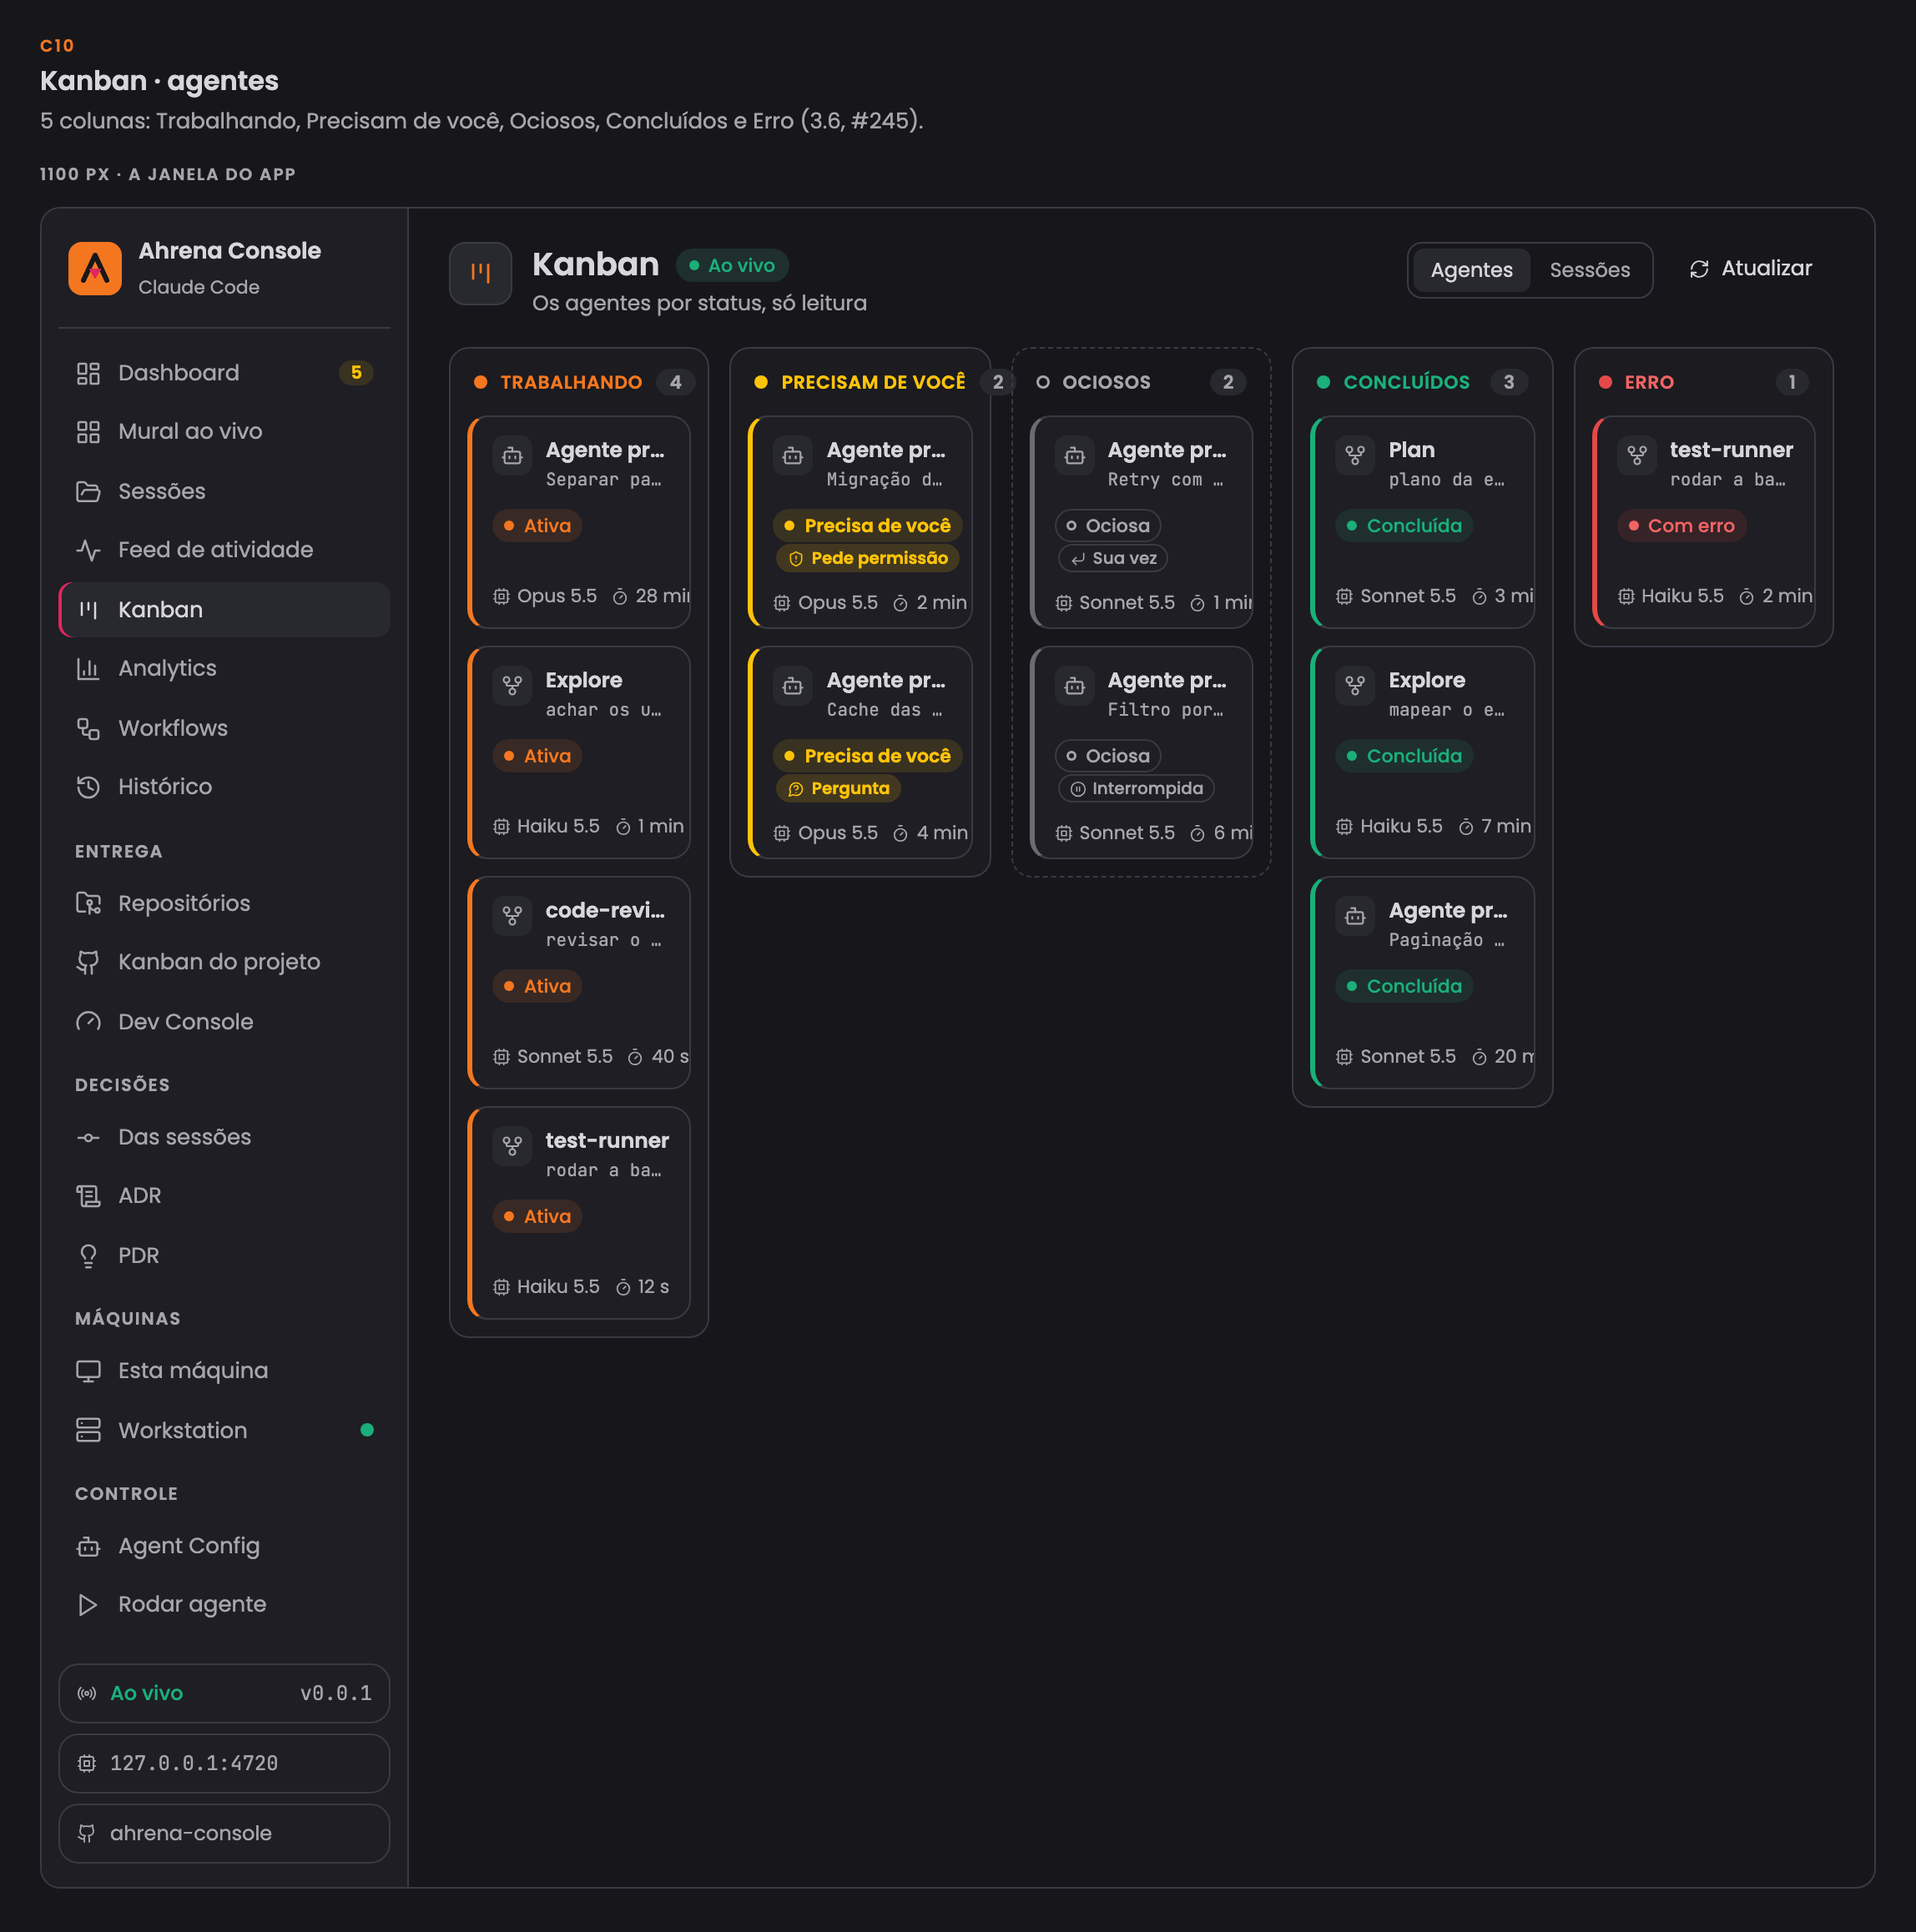
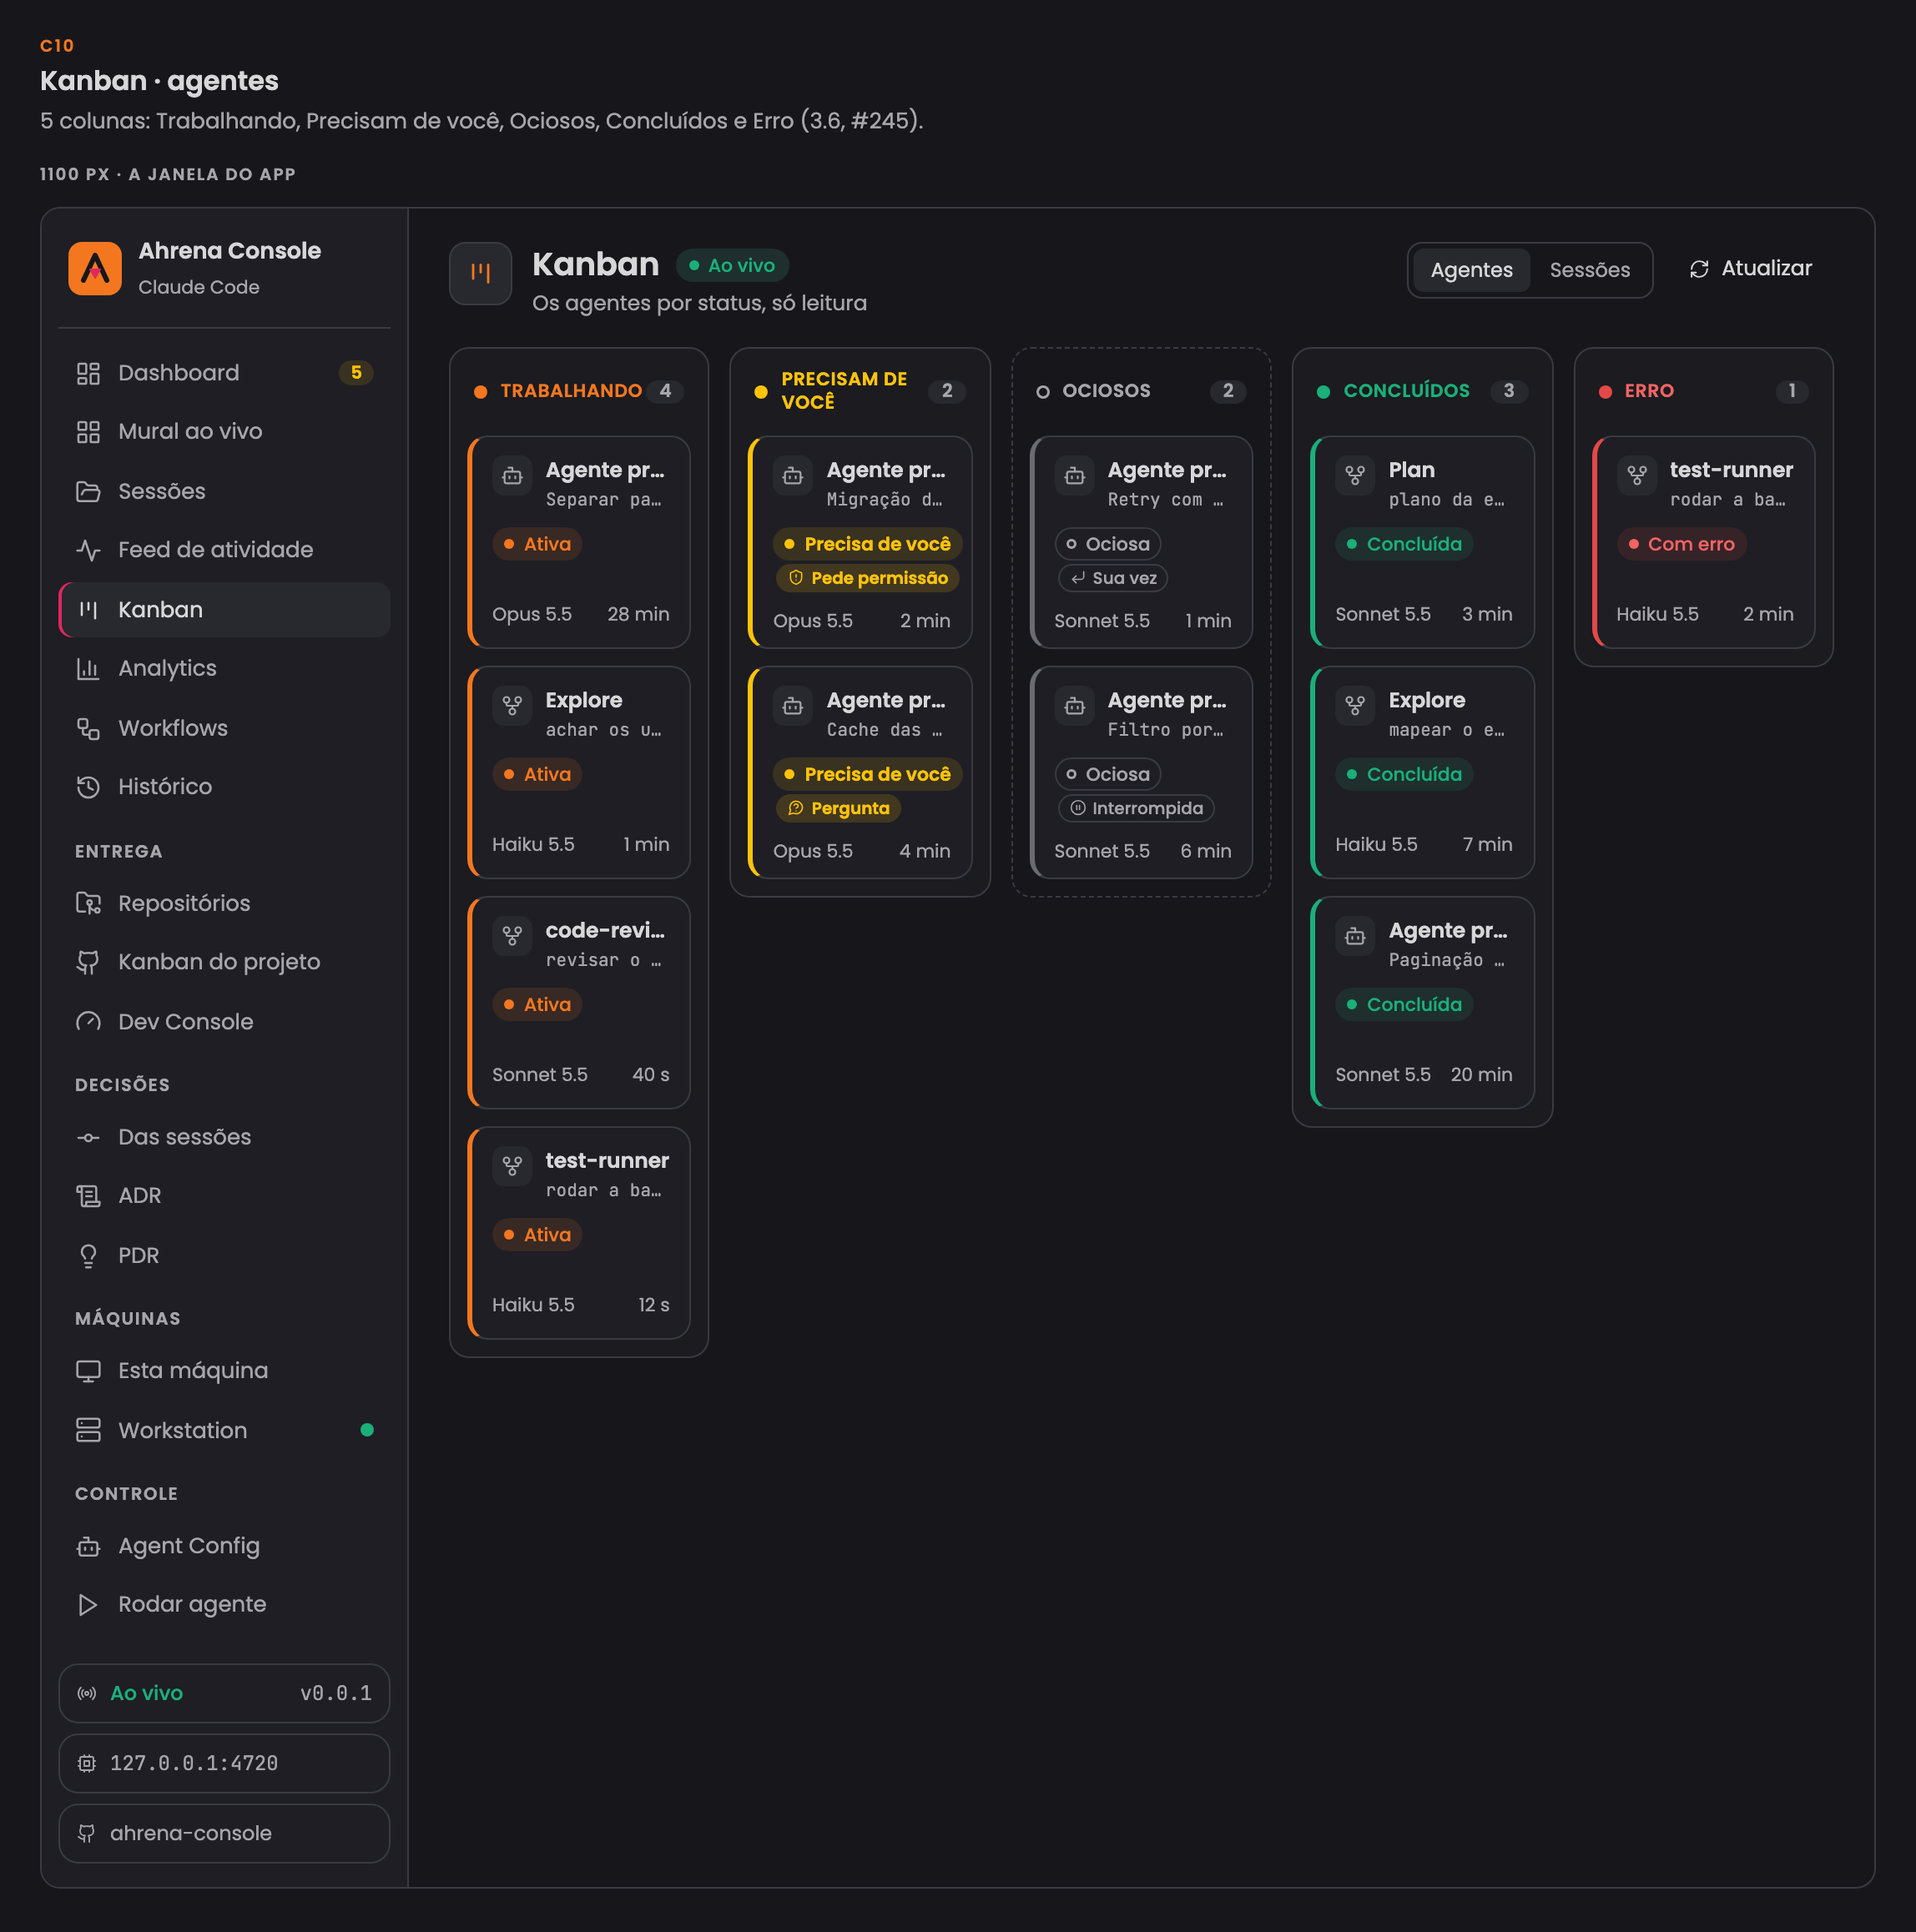
wireframes: fit the kanban headers and card footers at 1100 px (#245)
Column labels wrap before the count badge instead of pushing it into the next
column, and card footers drop their icons so cost and duration (or model and
duration) fit. Recaptured C9 and C10.

diff --git a/docs/wireframes/index.html b/docs/wireframes/index.html
@@ -560,8 +560,10 @@ body.captura .palco { overflow: visible; }
 .dash-idle .dash-idle-t b { color: var(--text); font-weight: 500; }
 .dash-idle .dash-idle-i { display: inline-flex; align-items: center; gap: 6px; min-width: 0; white-space: nowrap; overflow: hidden; flex: 0 1 auto; }
 .mot { white-space: nowrap; flex: none; }
-.cc.w1100 .col .cab { white-space: nowrap; letter-spacing: .03em; }
-.cc.w1100 .kanban-session-card .pe { grid-template-columns: auto auto; justify-content: space-between; } .cc.w1100 .kanban-session-card .pe span:nth-child(-n+2) { display: none; }
+.cc.w1100 .col .cab { letter-spacing: .03em; min-height: 32px; line-height: 1.25; }
+.cc.w1100 .col .cab > span:nth-child(2) { min-width: 0; } .cc.w1100 .col .cab .n { flex: none; }
+.cc.w1100 .kc .pe { grid-template-columns: auto auto; justify-content: space-between; gap: 3px 6px; } .cc.w1100 .kc .pe svg { display: none; }
+.cc.w1100 .kanban-session-card .pe span:nth-child(-n+2) { display: none; }
 .cc.w1100 .ac .rodape span { white-space: nowrap; } .cc.w1100 .ac .rodape .trunc { flex: 1; min-width: 0; display: block; }
 .dash-idle .dash-idle-i .mono { font-size: 11.5px; }
 .dash-idle .r { margin-left: auto; white-space: nowrap; display: inline-flex; align-items: center; gap: 4px; }
